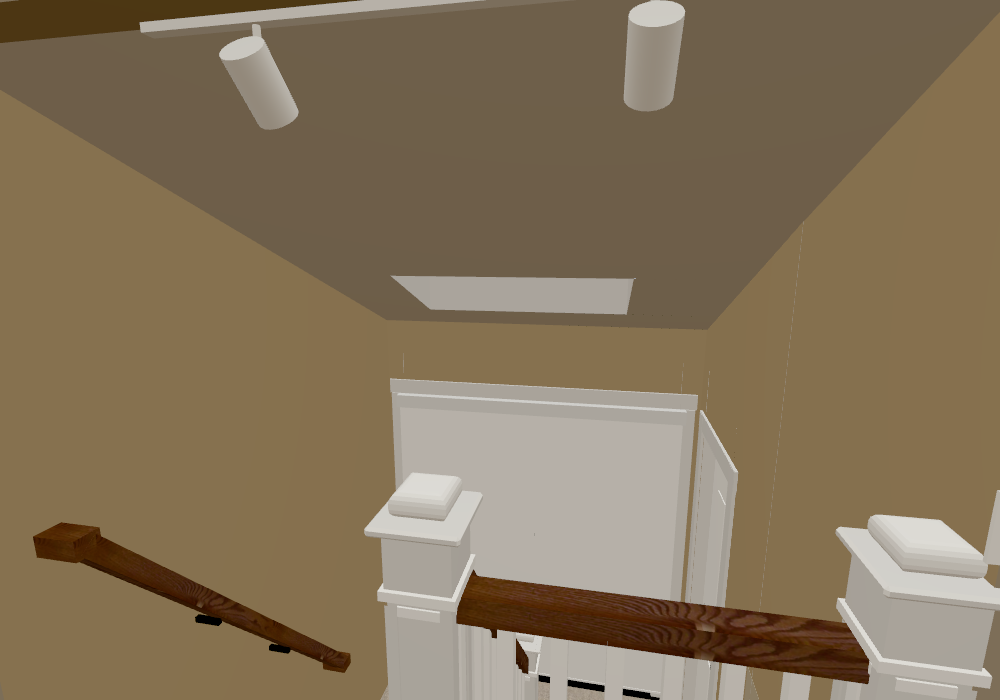
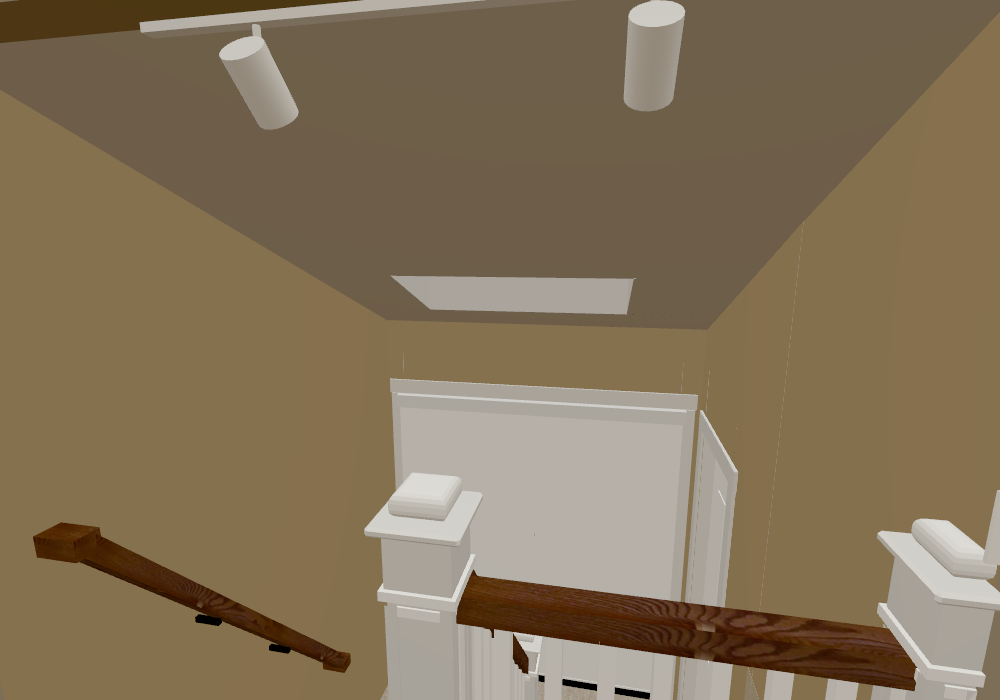
Half newels where a railing dies into a wall
newelPost() takes a half option ('x+' | 'x-' | 'z+' | 'z-'): the paneled box
newel split down its centre plane, full width along the wall face and half
depth out from it, the cut face on the wall with no panel, the same plinth,
panels, collar, upper block, cap plate and (half) cushion. A railing's newels
entry can be { t, half }.

Every railing end that meets a wall now has one: the living-room rail at the
front wall (rail run on to the wall face, z 29.52-29.75), the kitchen/rear-
stair rail at the east wall (x 41.77-42.0), the top of the front up-flight at
the wall facing the stairs (replacing the full post nudged off its corner),
and the short rail from the foot post to the lower-hall wall. Free-standing
ends keep full newels.

Changed region(s): [[0.713, 0.72, 1.0, 1.0], [0.527, 0.93, 0.682, 1.0], [0.961, 0.96, 0.992, 0.99]]

diff --git a/js/house.js b/js/house.js
@@ -1028,32 +1028,38 @@ function beam(b, p0, p1, w, h, mat, o = {}) {
 
 // Box newel (0.46 square): plain plinth with a cap moulding, a shaft with a recessed panel framed on all
 // four faces, a collar at the rail, a plain upper block, a cap plate and a cushion block on top.
-function newelPost(b, x, z, y0, railTop) {
-  const sq = (h, ya, yb, o) => b.box(x - h, x + h, ya, yb, z - h, z + h, TRIM, { dens: 8, ...o });
-  const mould = (h, ya, yb) => b.mbox(x - h, x + h, ya, yb, z - h, z + h, TRIM);
+// half ('x+' | 'x-' | 'z+' | 'z-'): a half newel where the rail dies into a wall on that side: the post split
+// down its centre plane, (x, z) on the wall face, full width along the wall and half depth out from it, no
+// panel on the cut face.
+function newelPost(b, x, z, y0, railTop, half) {
+  if (half && half !== 'z+') return rotated(b, x, z, { 'x+': Math.PI / 2, 'z-': Math.PI, 'x-': -Math.PI / 2 }[half], sub => newelPost(sub, x, z, y0, railTop, 'z+'));
+  const zb = h => (half ? z : z + h), back = half ? ['pz'] : [];                     // (built with the wall at +z)
+  const sq = (h, ya, yb, o = {}) => b.box(x - h, x + h, ya, yb, z - h, zb(h), TRIM, { dens: 8, ...o, skip: [...(o.skip || []), ...back] });
+  const mould = (h, ya, yb) => b.mbox(x - h, x + h, ya, yb, z - h, zb(h), TRIM);
   sq(0.23, y0, y0 + 0.9, { skip: ['ny', 'py'] });                                    // plinth
   mould(0.245, y0 + 0.9, y0 + 0.925); mould(0.26, y0 + 0.925, y0 + 0.95);             // plinth cap
   const s0 = y0 + 0.95, s1 = railTop - 0.05;
   sq(0.215, s0, railTop, { skip: ['ny', 'py'] });                                    // core: the panels, 0.015 back
-  for (const sx of [-1, 1]) for (const sz of [-1, 1]) {                             // corner stiles
+  for (const sx of [-1, 1]) for (const sz of half ? [-1] : [-1, 1]) {               // corner stiles
     const cx = x + sx * 0.1875, cz = z + sz * 0.1875;
     b.box(cx - 0.0425, cx + 0.0425, s0, s1, cz - 0.0425, cz + 0.0425, TRIM, { skip: ['ny', 'py'], dens: 8 });
   }
+  if (half) for (const sx of [-1, 1]) b.box(x + sx * 0.1875 - 0.0425, x + sx * 0.1875 + 0.0425, s0, s1, z - 0.0425, z, TRIM, { skip: ['ny', 'py', 'pz'], dens: 8 });   // stiles on the wall
   for (const [ya, yb] of [[s0, s0 + 0.07], [s1 - 0.07, s1]]) {                        // top and bottom rails
-    b.mbox(x - 0.23, x + 0.23, ya, yb, z - 0.145, z + 0.145, TRIM);
-    b.mbox(x - 0.145, x + 0.145, ya, yb, z - 0.23, z + 0.23, TRIM);
+    b.mbox(x - 0.23, x + 0.23, ya, yb, z - 0.145, zb(0.145), TRIM);
+    b.mbox(x - 0.145, x + 0.145, ya, yb, z - 0.23, zb(0.23), TRIM);
   }
   mould(0.26, railTop, railTop + 0.07);                                               // collar
   sq(0.23, railTop + 0.07, railTop + 0.47, { skip: ['ny', 'py'] });                  // upper block
-  b.box(x - 0.31, x + 0.31, railTop + 0.47, railTop + 0.54, z - 0.31, z + 0.31, TRIM, { dens: 8, bevel: 0.02 });   // cap plate
-  const sh = new THREE.Shape();                                                       // cushion: 0.38 square, rounded
-  sh.moveTo(-0.12, -0.12); sh.lineTo(0.12, -0.12); sh.lineTo(0.12, 0.12); sh.lineTo(-0.12, 0.12); sh.lineTo(-0.12, -0.12);
+  sq(0.31, railTop + 0.47, railTop + 0.54, { bevel: 0.02 });                          // cap plate
+  const sh = new THREE.Shape(), y1 = half ? 0.07 : -0.12;                            // cushion: 0.38 square, rounded
+  sh.moveTo(-0.12, y1); sh.lineTo(0.12, y1); sh.lineTo(0.12, 0.12); sh.lineTo(-0.12, 0.12); sh.lineTo(-0.12, y1);
   const g = new THREE.ExtrudeGeometry(sh, { depth: 0.04, bevelEnabled: true, bevelThickness: 0.07, bevelSize: 0.07, bevelSegments: 4 });
   g.rotateX(-Math.PI / 2);
   g.computeBoundingBox();
   g.translate(0, -g.boundingBox.min.y, 0);
   b.prim(g, TRIM, x, railTop + 0.54, z);
-  b.collider(x - 0.23, x + 0.23, y0, railTop + 0.72, z - 0.23, z + 0.23);
+  b.collider(x - 0.23, x + 0.23, y0, railTop + 0.72, z - 0.23, zb(0.23));
 }
 
 function railings(b) {
@@ -1082,9 +1088,9 @@ function railings(b) {
         b.mbox(p[0] - 0.055, p[0] + 0.055, p[1] + (sloped ? 0 : 0.16), p[1] + r.h - 0.08, p[2] - 0.055, p[2] + 0.055, TRIM);
       }
     }
-    for (const nt of r.newels) {
-      const p = at(nt);
-      newelPost(b, p[0], p[2], r.newelBase ? r.newelBase(nt) : sloped ? p[1] - 0.12 : r.base(nt), p[1] + r.h + 0.1);
+    for (const nd of r.newels) {                          // t, or { t, half } for a half newel on a wall
+      const nt = nd.t ?? nd, p = at(nt);
+      newelPost(b, p[0], p[2], r.newelBase ? r.newelBase(nt) : sloped ? p[1] - 0.12 : r.base(nt), p[1] + r.h + 0.1, nd.half);
     }
     b.collider(Math.min(r.x0, r.x1) - 0.14, Math.max(r.x0, r.x1) + 0.14, Math.min(r.base(0), r.base(1)), Math.max(r.base(0), r.base(1)) + r.h,
       Math.min(r.z0, r.z1) - 0.14, Math.max(r.z0, r.z1) + 0.14);

diff --git a/js/layout.js b/js/layout.js
@@ -184,13 +184,13 @@ export const KNEEWALLS = [
 
 // Balustrades: white square balusters, stained oak rail. base(t) = walking height along the run.
 export const RAILINGS = [
-  { x0: 28.8, z0: 20, x1: 28.8, z1: 29.52, base: () => MAIN, h: 3.0, newels: [0, 1], shoe: 'oak' },          // living room / stairwell (photo 57): end post against the front wall
+  { x0: 28.8, z0: 20, x1: 28.8, z1: 29.75, base: () => MAIN, h: 3.0, newels: [0, { t: 1, half: 'z+' }], shoe: 'oak' },   // living room / stairwell (photo 57): half newel on the front wall
   { x0: 24.8, z0: FU.z0, x1: 24.8, z1: FU.z1, base: t => MAIN - t * (MAIN - FRONT) + (MAIN - FRONT) / 5, h: 2.75,  // front up-flight (nosing line)
-    newels: [0.105, 1], newelBase: t => (t < 0.5 ? MAIN : FRONT), flight: 'frontUp' },                        // top post clear of the wall corner
+    newels: [{ t: WALL_T / 2 / (FU.z1 - FU.z0), half: 'z-' }, 1], newelBase: t => (t < 0.5 ? MAIN : FRONT), flight: 'frontUp' },   // half newel on the wall at the top
   { x0: 24.8, z0: FU.z1, x1: 24.8, z1: FD.z1, base: () => FRONT, h: 3.0, newels: [1] },                        // landing edge over the bottom flight
   { x0: 24.8, z0: FD.z0, x1: 24.8, z1: 19.5, base: t => LOW + (FRONT - LOW) * (t * (19.5 - FD.z0) / (FD.z1 - FD.z0)) + (FRONT - LOW) / 11,
-    h: 2.75, newels: [0], newelBase: () => LOW, flight: 'frontDown' },                                          // foot of the bottom flight in the lower hall
-  { x0: 38.9, z0: 0, x1: 41.77, z1: 0, base: () => MAIN, h: 3.0, newels: [0, 1] },                             // kitchen / rear stairs: corner post where the up-flight rail arrives, end post against the wall
+    h: 2.75, newels: [0, { t: (19.5 - WALL_T / 2 - FD.z0) / (19.5 - FD.z0), half: 'z+' }], newelBase: () => LOW, flight: 'frontDown' },   // foot of the bottom flight in the lower hall; half newel on the wall
+  { x0: 38.9, z0: 0, x1: 42.0, z1: 0, base: () => MAIN, h: 3.0, newels: [0, { t: 1, half: 'x+' }] },          // kitchen / rear stairs: corner post where the up-flight rail arrives, half newel on the wall
   { x0: 38.9, z0: -4.4, x1: 38.9, z1: 0, base: t => MID + t * (MAIN - MID) + (MAIN - MID) / 8 + 0.12, h: 2.65, // rear up-flight
     newels: [0], newelBase: () => MID },
 ];
